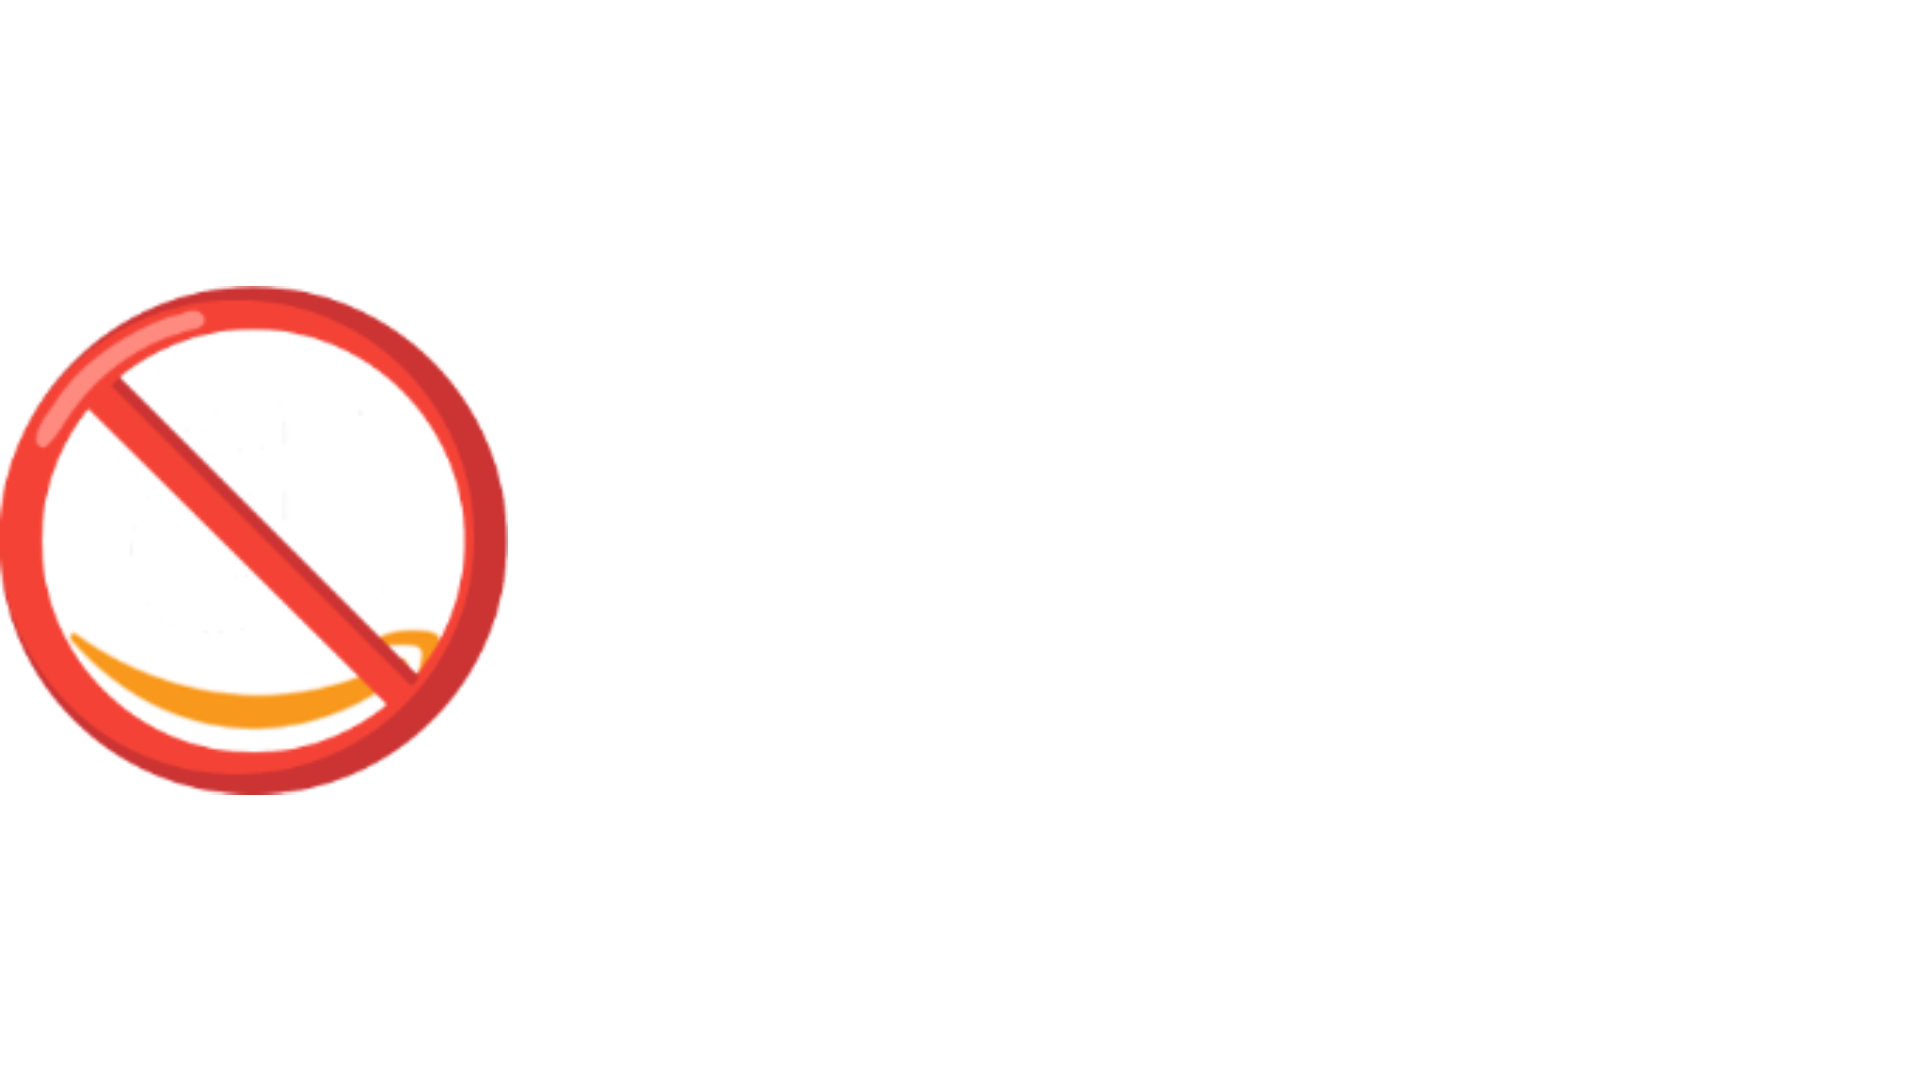
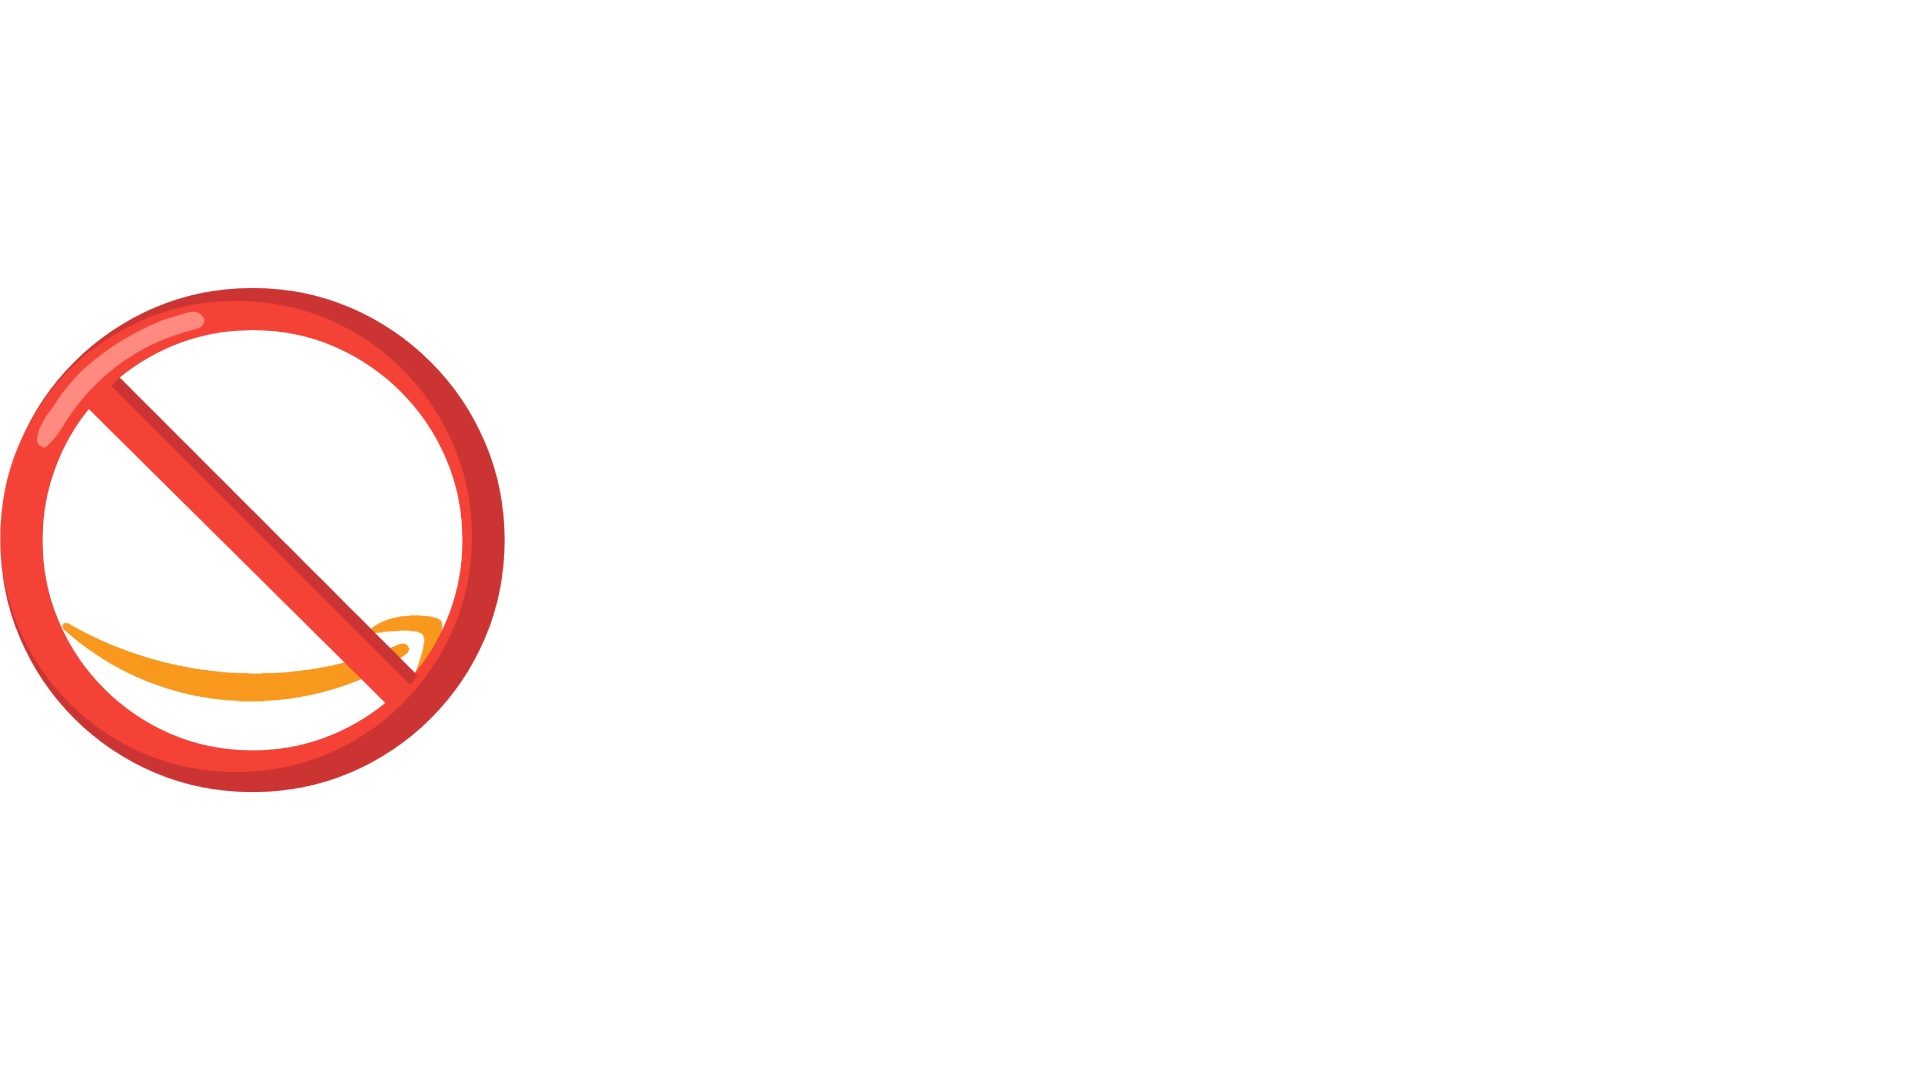
Added another project (OSU Food Finder) and updated HIde Amazon Brands Image

diff --git a/projects/index.html b/projects/index.html
@@ -50,6 +50,11 @@
     </ul>
     <p class="title" id="name" style="text-align: center; margin-bottom: 35px;">Projects</p>
     <div style="display: flex; justify-content: center; gap: 15px; flex-wrap: wrap;">
+        <div class="project" onclick="window.open('https:\/\/osufood.bobjoerules.com', '_blank'); return false;">
+            <img style="padding: 10px;" src="OSU Food Finder .png">
+            <p style="padding: 10px; line-height: 1.6;">"Oregon State University Food Finder" is a project I started my first week at OSU when I hard a time knowing where to go to eat and at what times the places were open. The website is built to mimic IOS and MacOS default design and shows what places are open/closed and what their operation hours are. At the moment, due to incorrect data from OSU, some times may be inaccurate.</p>
+            <p style="padding: 10px; line-height: 1.6; margin-top: auto;" data-title="OSU-Food"><span style="text-decoration: underline; font-weight: bold;">Status:</span> <span style="color:rgb(78, 78, 0);">Work In Progress</span><br><span style="text-decoration: underline; font-weight: bold;">Date Started:</span> Sep 21, 2025<br><span style="text-decoration: underline; font-weight: bold;">Total Commits:</span><span> Around 44</span></p>
+        </div>
         <div class="project" onclick="window.open('https:\/\/darkmodesites.com', '_blank'); return false;">
             <img style="padding: 10px;" src="DarkMode Sites.png">
             <p style="padding: 10px; line-height: 1.6;">"DarkMode Sites" is my first website and big project I have worked on. I started it back in August of 2021 and have since updated it periodically. It's basically a cool and visual list of applications, websites, and extensions that have DarkMode. I first created it because I had gone to darkmodelist.com and found that it had a pay wall for additions and it made me angry. It originally was called "DarkMode sheets" but I rebranded it when I wanted to make a custom domain and found that darkmodesheets.com was taken.</p>
